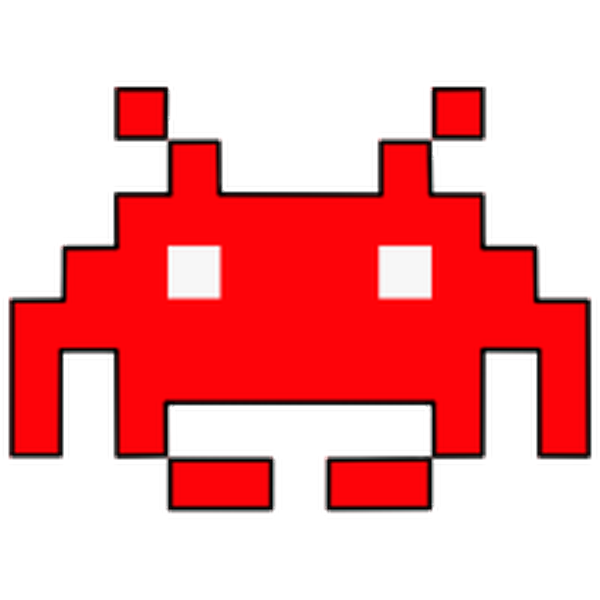
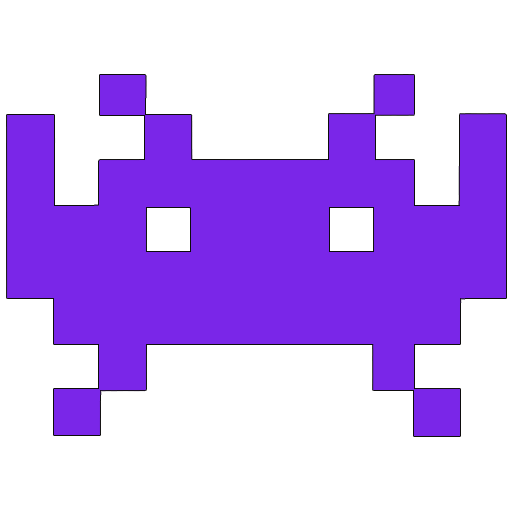
Cuda nie widy

diff --git a/src/main/java/com/example/projekt_ztp/controllers/GameController.java b/src/main/java/com/example/projekt_ztp/controllers/GameController.java
@@ -48,9 +48,8 @@ public class GameController {
 
         levelIterator = levelsDataBase.iterator();
         loadLevel();
-
+        Ship.getInstance().resetUpgrade();
         setupEnemyTimeline();
-        setupBulletsTimeline();
     }
     private void setupEnemyTimeline() {
         Timeline timelineEnemy = new Timeline(
@@ -61,25 +60,20 @@ public class GameController {
                         case 1-> defeat();
                     }
                 })
+                ,
+                new KeyFrame(Duration.millis(10), event -> {
+
+                    //if(!currentState.upgradeChosen){
+                        currentState.bulletsMove();
+                    //}
+
+                })
         );
 
         timelineEnemy.setCycleCount(Timeline.INDEFINITE);
         timelineEnemy.play();
     }
-    private void setupBulletsTimeline() {
-        Timeline timeline = new Timeline(
-                new KeyFrame(Duration.millis(10), event -> {
 
-                    if(!currentState.upgradeChosen){
-                        currentState.bulletsMove();
-                    }
-
-                })
-        );
-
-        timeline.setCycleCount(Timeline.INDEFINITE);
-        timeline.play();
-    }
 
     private void loadLevel() {
         if(levelIterator.hasNext()) {
@@ -96,10 +90,14 @@ public class GameController {
     }
     private void totalVictory(){
         message.setText("Total Victory!");
+        message.setLayoutX(200);
+        message.setLayoutY(150);
         currentState = new PauseState(anchorPane);
     }
     private void defeat() {
         message.setText("Defeat");
+        message.setLayoutX(230);
+        message.setLayoutY(150);
         gameState.deleteAll();
         gameState.ship.resetUpgrade();
         currentState = new PauseState(anchorPane);

diff --git a/src/main/java/com/example/projekt_ztp/state/GameState.java b/src/main/java/com/example/projekt_ztp/state/GameState.java
@@ -76,6 +76,7 @@ public class GameState extends AppState{
 
     @Override
     public void bulletsMove() {
+        boolean enemyHit = false;
         Iterator<Bullet> iterator = bullets.iterator();
         Iterator<Enemy> enemyIterator = enemies.iterator();
         Iterator<Obstacle> obstacleIterator = obstacles.iterator();
@@ -115,13 +116,24 @@ public class GameState extends AppState{
                     System.out.println("Kolizja!");
                     pane.getChildren().remove(enemy.getGraphicRep());
                     enemyIterator.remove();
-                    pane.getChildren().remove(bullet.getGraphicRep());
-                    iterator.remove();
-                    if(iterator.hasNext()){
-                        bullet = iterator.next();
-                    }else {
-                        break;
-                    }
+                    enemyHit = true;
+//                    pane.getChildren().remove(bullet.getGraphicRep());
+//                    iterator.remove();
+//                    if(iterator.hasNext()){
+//                        bullet = iterator.next();
+//                    }else {
+//                        break;
+//                    }
+                }
+            }
+            if(enemyHit){
+                pane.getChildren().remove(bullet.getGraphicRep());
+                iterator.remove();
+                enemyHit = false;
+                if(iterator.hasNext()){
+                    bullet = iterator.next();
+                }else {
+                    break;
                 }
             }
             enemyIterator = enemies.iterator();

diff --git a/src/main/java/com/example/projekt_ztp/creator/Obstacle.java b/src/main/java/com/example/projekt_ztp/creator/Obstacle.java
@@ -7,18 +7,16 @@ import javafx.scene.paint.ImagePattern;
 import javafx.scene.shape.Rectangle;
 
 public abstract class Obstacle {
-    private int obstacleHealth = 10;
-    private double x,y,size;
-    private String imagePath;
-    private Image image = new Image("file:src/main/resources/com/example/projekt_ztp/Images/przeszkoda_02.png");
-    private ImagePattern imagePattern = new ImagePattern(image);
-    private Rectangle rectangle =
-            new Rectangle(StageProperties.ENEMY_WIDTH,StageProperties.ENEMY_HEIGHT/2);
+    protected int obstacleHealth = 10;
+    protected double x,y,size;
+    protected String imagePath;
+    protected Image image = new Image("file:src/main/resources/com/example/projekt_ztp/Images/przeszkoda_02.png");
+    protected ImagePattern imagePattern = new ImagePattern(image);
+    protected Rectangle rectangle = new Rectangle(StageProperties.ENEMY_WIDTH,StageProperties.ENEMY_HEIGHT/2);
 
     public Rectangle getGraphicRep() {
         rectangle.setLayoutX(x);
         rectangle.setLayoutY(y);
-        rectangle.setFill(Color.WHITE);
         //rectangle.setFill(imagePattern);
         if(obstacleHealth <= 6){rectangle.setFill(Color.YELLOW);}
         if(obstacleHealth <= 3){rectangle.setFill(Color.RED);}

diff --git a/src/main/java/com/example/projekt_ztp/builder/BuilderTwo.java b/src/main/java/com/example/projekt_ztp/builder/BuilderTwo.java
@@ -8,6 +8,7 @@ import com.example.projekt_ztp.creator.CreateObstacleTwo;
 import com.example.projekt_ztp.creator.Creator;
 import com.example.projekt_ztp.creator.Obstacle;
 
+
 public class BuilderTwo implements BoardBuilder{
     private Level level;
     private Creator creator;
@@ -15,8 +16,9 @@ public class BuilderTwo implements BoardBuilder{
     public BuilderTwo() {
         level = new Level();
         creator = new CreateObstacleTwo();
-        x = 0;
-        y = 0;
+        x = 100;
+        y = StageProperties.FRAME_SIZE;
+        //test1
     }
 
     @Override
@@ -37,6 +39,8 @@ public class BuilderTwo implements BoardBuilder{
     public void addObstacle() {
         Obstacle obstacle = creator.create();
         obstacle.setX(x);
+        obstacle.setY(StageProperties.GAME_WINDOW_HEIGHT-2.5*StageProperties.SHIP_SIZE);
+        x += StageProperties.ENEMY_WIDTH;
         level.addObstacle(obstacle);
     }
 
@@ -44,10 +48,11 @@ public class BuilderTwo implements BoardBuilder{
     public void nexColumn() {
         x += StageProperties.ENEMY_WIDTH;
     }
+
     @Override
     public void nexLine() {
         y += StageProperties.ENEMY_HEIGHT;
-        x = StageProperties.FRAME_SIZE;
+        x = 100;
     }
 
     @Override

diff --git a/src/main/java/com/example/projekt_ztp/Strategy/EnemyOne.java b/src/main/java/com/example/projekt_ztp/Strategy/EnemyOne.java
@@ -1,10 +1,14 @@
 package com.example.projekt_ztp.Strategy;
 
 import com.example.projekt_ztp.StageProperties;
+import javafx.scene.image.Image;
+import javafx.scene.paint.ImagePattern;
 
 public class EnemyOne extends Enemy{
 
     public EnemyOne(){
+        image = new Image("file:src/main/resources/com/example/projekt_ztp/Images/EnemyOne.png");
+        imagePattern = new ImagePattern(image);
         this.health = 100;
         //this.image = TODO:WCZYTUJEMY ZDJECIE
         //Pozycjonowanie do zmiany
@@ -16,6 +20,8 @@ public class EnemyOne extends Enemy{
     }
 
     public EnemyOne(double xPos,double yPos){
+        image = new Image("file:src/main/resources/com/example/projekt_ztp/Images/EnemyOne.png");
+        imagePattern = new ImagePattern(image);
         this.health = 100;
         //this.image = TODO:WCZYTUJEMY ZDJECIE
         this.xPos = xPos;

diff --git a/src/main/java/com/example/projekt_ztp/Strategy/EnemyTwo.java b/src/main/java/com/example/projekt_ztp/Strategy/EnemyTwo.java
@@ -1,10 +1,14 @@
 package com.example.projekt_ztp.Strategy;
 
 import com.example.projekt_ztp.StageProperties;
+import javafx.scene.image.Image;
+import javafx.scene.paint.ImagePattern;
 
 public class EnemyTwo extends Enemy{
 
     public EnemyTwo(double xPos,double yPos){
+        image = new Image("file:src/main/resources/com/example/projekt_ztp/Images/EnemyTwo.png");
+        imagePattern = new ImagePattern(image);
         this.health = 100;
         //this.image = TODO:WCZYTUJEMY ZDJECIE
         this.xPos = xPos;

diff --git a/src/main/java/com/example/projekt_ztp/state/ChoosingUpgradeState.java b/src/main/java/com/example/projekt_ztp/state/ChoosingUpgradeState.java
@@ -57,7 +57,7 @@ public class ChoosingUpgradeState extends AppState{
             for(ModuleToShot module : modules) {
                 if(module.wasHit(bullet)) {
                     System.out.println("DODANIE UPGREADE");
-                    if(ship.upgrade != module.getModule()){
+                    if(!upgradeChosen){
                         ship.addUpgrade(module.getModule());
                     }else {
                         System.out.println("Ship.upgrade == module.getModule() [NIE DODAJE UPGREADA]");

diff --git a/src/main/java/com/example/projekt_ztp/Ship.java b/src/main/java/com/example/projekt_ztp/Ship.java
@@ -43,7 +43,7 @@ public class Ship {
         graphicRep.setLayoutY(y);
     }
     public void move(int shift) {
-        if(x+shift < 10 || x+shift > StageProperties.GAME_WINDOW_WIDTH-StageProperties.SHIP_SIZE-10) {
+        if(x+shift < 0 || x+shift > StageProperties.GAME_WINDOW_WIDTH-StageProperties.SHIP_SIZE-0) {
             return;
         }
         x += upgrade.move(shift);

diff --git a/src/main/java/com/example/projekt_ztp/builder/LevelsDataBase.java b/src/main/java/com/example/projekt_ztp/builder/LevelsDataBase.java
@@ -51,7 +51,7 @@ public class LevelsDataBase {
         private int idx=-1;
         public Level next() {
             idx+=difficulty;
-            return buildLevel(new BuilderOne(),levelDescriptions.get(idx));
+            return buildLevel(builders[theme],levelDescriptions.get(idx));
         }
         @Override
         public boolean hasNext() {

diff --git a/src/main/java/com/example/projekt_ztp/decorators/StrongerEngines.java b/src/main/java/com/example/projekt_ztp/decorators/StrongerEngines.java
@@ -11,8 +11,9 @@ public class StrongerEngines extends Module{
 
     @Override
     public double move(double x) {
-        double tmp = x * 2;
-        return upgrade.move(tmp);
+        if(x>0)x+=3;
+        if(x<0)x-=3;
+        return upgrade.move(x);
     }
 
     @Override

diff --git a/src/main/java/com/example/projekt_ztp/decorators/FasterBullet.java b/src/main/java/com/example/projekt_ztp/decorators/FasterBullet.java
@@ -16,7 +16,7 @@ public class FasterBullet extends Module{
 
     @Override
     public Bullet shot(Bullet bullet) {
-        bullet.setSpeed(2*bullet.getSpeed());
+        bullet.setSpeed(0.5+bullet.getSpeed());
         return upgrade.shot(bullet);
     }
 }

diff --git a/src/main/java/com/example/projekt_ztp/decorators/BiggerBullet.java b/src/main/java/com/example/projekt_ztp/decorators/BiggerBullet.java
@@ -15,7 +15,7 @@ public class BiggerBullet extends Module{
 
     @Override
     public Bullet shot(Bullet bullet) {
-        bullet.setSize(2*bullet.getSize());
+        bullet.setSize(1+bullet.getSize());
         return upgrade.shot(bullet);
     }
 }
